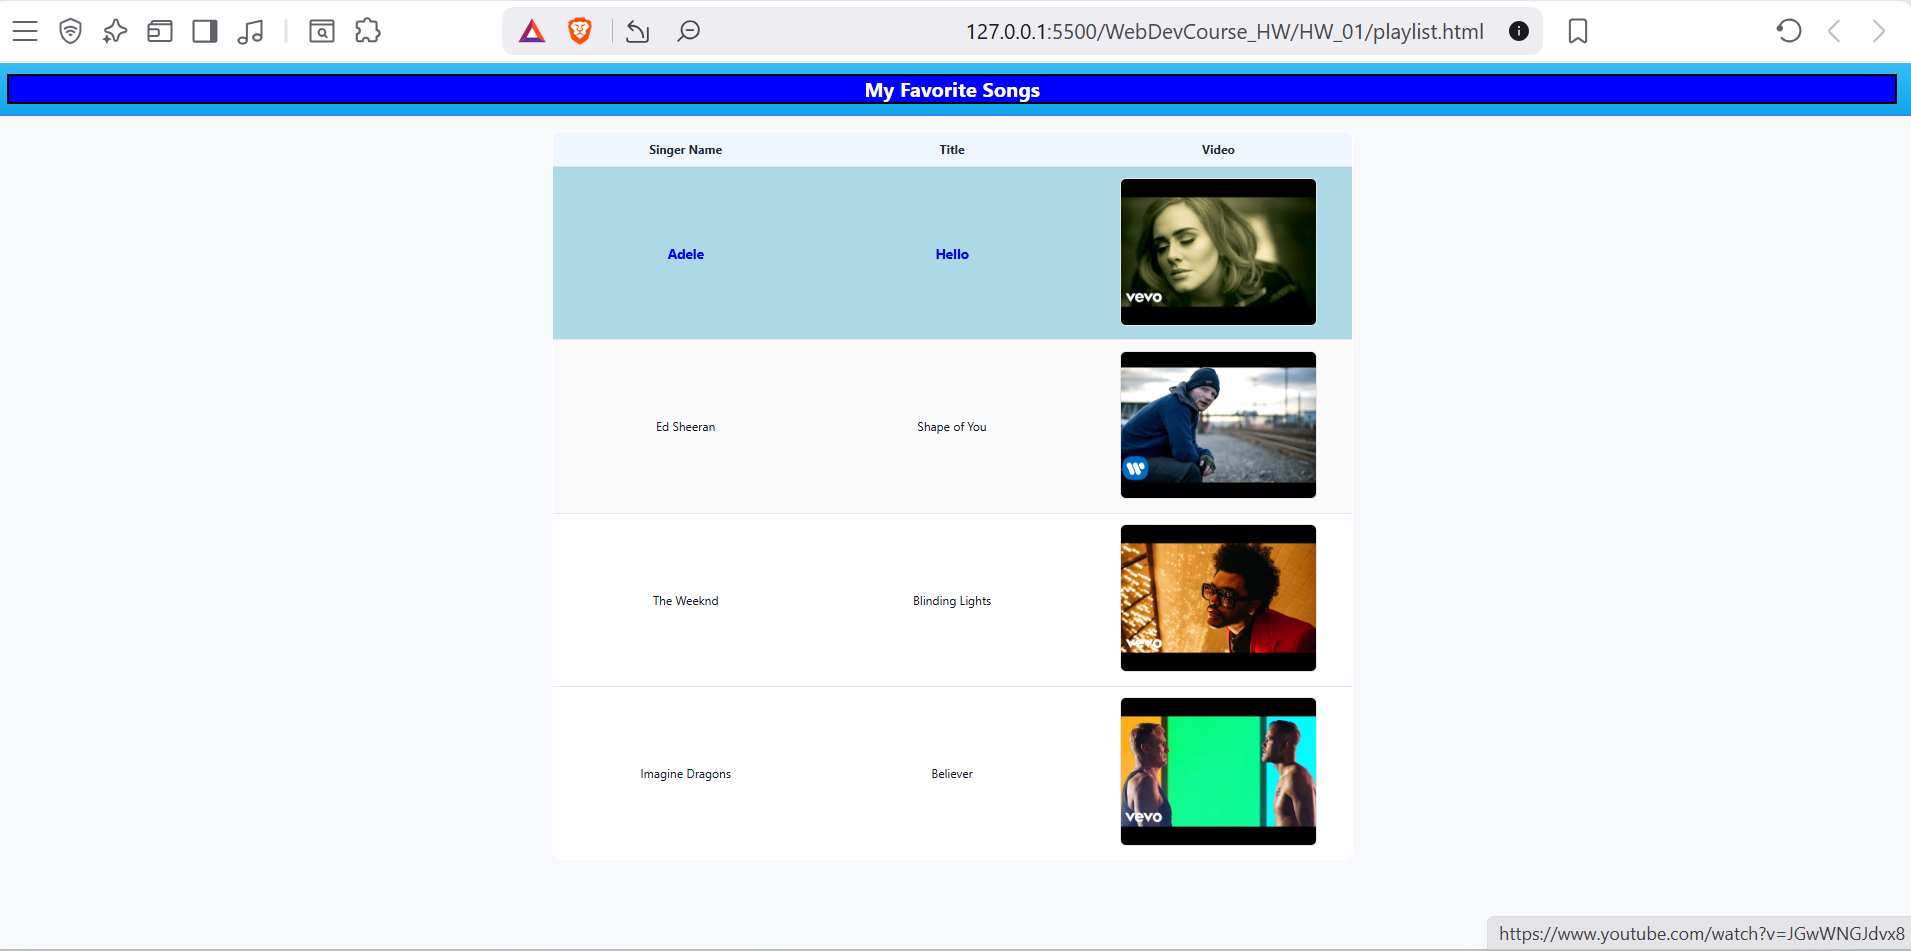
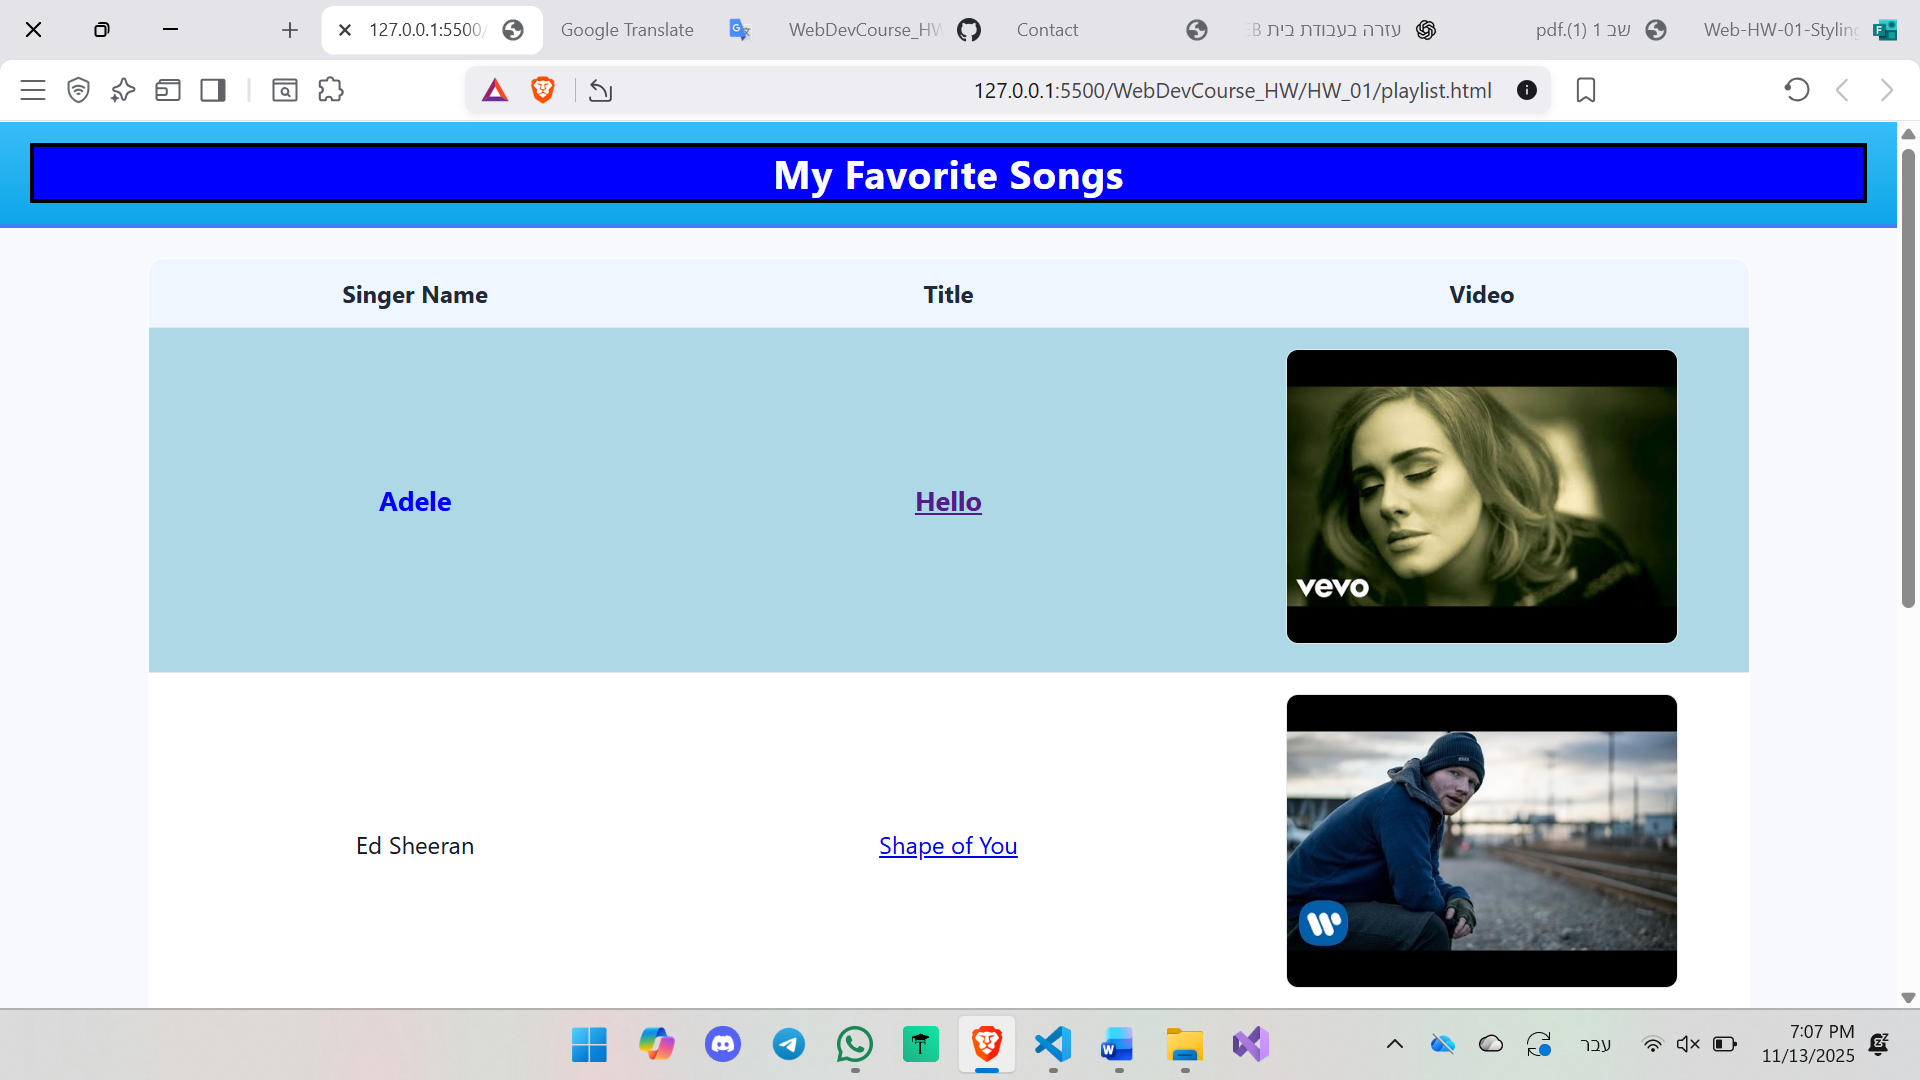
HW_01: Make song titles YouTube links + hover (screenshot 07.png)

diff --git a/HW_01/playlist.html b/HW_01/playlist.html
@@ -6,7 +6,7 @@
     <meta name="viewport" content="width=device-width, initial-scale=1" />
     <link rel="stylesheet" href="playlist.css" />
     <style>
-        /* Center the title */
+        /* מרכז את הכותרת */
         .topbar h1 {
             text-align: center;
             margin: 0;
@@ -25,94 +25,75 @@
     <main class="container">
         <table class="playlist">
             <thead>
-                <table class="playlist">
-                    <thead>
-                        <tr>
-                            <th>Singer Name</th>
-                            <th>Title</th>
-                            <th>Video</th>
-                        </tr>
-                    </thead>
-                    <tbody>
-                        <tr class="selected-row">
-                            <td>Adele</td>
-                            <td>Hello</td>
-                            <td class="video">
-                                <a href="https://www.youtube.com/watch?v=YQHsXMglC9A" target="_blank" rel="noopener">
-                                    <img src="https://img.youtube.com/vi/YQHsXMglC9A/hqdefault.jpg" alt="Adele - Hello">
-                                </a>
-                            </td>
-                        </tr>
-
-
-                        <tr>
-                            <td>Ed Sheeran</td>
-                            <td>Shape of You</td>
-                            <td class="video">
-                                <a href="https://www.youtube.com/watch?v=JGwWNGJdvx8" target="_blank" rel="noopener">
-                                    <img src="https://img.youtube.com/vi/JGwWNGJdvx8/hqdefault.jpg"
-                                        alt="Ed Sheeran - Shape of You">
-                                </a>
-                            </td>
-                        </tr>
-
-                        <tr>
-                            <td>The Weeknd</td>
-                            <td>Blinding Lights</td>
-                            <td class="video">
-                                <a href="https://www.youtube.com/watch?v=fHI8X4OXluQ" target="_blank" rel="noopener">
-                                    <img src="https://img.youtube.com/vi/fHI8X4OXluQ/hqdefault.jpg"
-                                        alt="The Weeknd - Blinding Lights">
-                                </a>
-                            </td>
-                        </tr>
-
-                        <tr>
-                            <td>Imagine Dragons</td>
-                            <td>Believer</td>
-                            <td class="video">
-                                <a href="https://www.youtube.com/watch?v=7wtfhZwyrcc" target="_blank" rel="noopener">
-                                    <img src="https://img.youtube.com/vi/7wtfhZwyrcc/hqdefault.jpg"
-                                        alt="Imagine Dragons - Believer">
-                                </a>
-                            </td>
-                        </tr>
-                    </tbody>
-                </table>
-
-            </thead>
-            <tbody>
-                <!-- דוגמה לשורה — החלף ידנית בסעיף 10 -->
                 <tr>
-                    <td><!-- Singer --></td>
-                    <td><!-- Song title --></td>
+                    <th>Singer Name</th>
+                    <th>Title</th>
+                    <th>Video</th>
+                </tr>
+            </thead>
+
+            <tbody>
+                <tr class="selected-row">
+                    <td>Adele</td>
+                    <td>
+                        <a class="song-link" href="https://www.youtube.com/watch?v=YQHsXMglC9A" target="_blank"
+                            rel="noopener">
+                            Hello
+                        </a>
+                    </td>
                     <td class="video">
-                        <!-- שים כאן קישור ליוטיוב ו-thumbnail -->
-                        <!-- דוגמה שמראים כמבנה בלבד: -->
-                        <!--
-            <a href="https://www.youtube.com/watch?v=XXXXXXXXXXX" target="_blank" rel="noopener">
-              <img src="https://img.youtube.com/vi/XXXXXXXXXXX/hqdefault.jpg" alt="Watch on YouTube">
-            </a>
-            -->
+                        <a href="https://www.youtube.com/watch?v=YQHsXMglC9A" target="_blank" rel="noopener">
+                            <img src="https://img.youtube.com/vi/YQHsXMglC9A/hqdefault.jpg" alt="Adele - Hello">
+                        </a>
                     </td>
                 </tr>
 
                 <tr>
-                    <td></td>
-                    <td></td>
-                    <td class="video"></td>
+                    <td>Ed Sheeran</td>
+                    <td>
+                        <a class="song-link" href="https://www.youtube.com/watch?v=JGwWNGJdvx8" target="_blank"
+                            rel="noopener">
+                            Shape of You
+                        </a>
+                    </td>
+                    <td class="video">
+                        <a href="https://www.youtube.com/watch?v=JGwWNGJdvx8" target="_blank" rel="noopener">
+                            <img src="https://img.youtube.com/vi/JGwWNGJdvx8/hqdefault.jpg"
+                                alt="Ed Sheeran - Shape of You">
+                        </a>
+                    </td>
                 </tr>
 
                 <tr>
-                    <td></td>
-                    <td></td>
-                    <td class="video"></td>
+                    <td>The Weeknd</td>
+                    <td>
+                        <a class="song-link" href="https://www.youtube.com/watch?v=fHI8X4OXluQ" target="_blank"
+                            rel="noopener">
+                            Blinding Lights
+                        </a>
+                    </td>
+                    <td class="video">
+                        <a href="https://www.youtube.com/watch?v=fHI8X4OXluQ" target="_blank" rel="noopener">
+                            <img src="https://img.youtube.com/vi/fHI8X4OXluQ/hqdefault.jpg"
+                                alt="The Weeknd - Blinding Lights">
+                        </a>
+                    </td>
                 </tr>
 
                 <tr>
-                    <td></td>
-                    <td></td>
-                    <td class="video"></td>
+                    <td>Imagine Dragons</td>
+                    <td>
+                        <a class="song-link" href="https://www.youtube.com/watch?v=7wtfhZwyrcc" target="_blank"
+                            rel="noopener">
+                            Believer
+                        </a>
+                    </td>
+                    <td class="video">
+                        <a href="https://www.youtube.com/watch?v=7wtfhZwyrcc" target="_blank" rel="noopener">
+                            <img src="https://img.youtube.com/vi/7wtfhZwyrcc/hqdefault.jpg"
+                                alt="Imagine Dragons - Believer">
+                        </a>
+                    </td>
                 </tr>
             </tbody>
         </table>

diff --git a/HW_01/playlist.css b/HW_01/playlist.css
@@ -132,3 +132,17 @@ td.video img {
     font-weight: bold;
     /* טקסט מודגש */
 }
+
+/* עיצוב ללינקים של הסרטונים */
+.video-link {
+    display: inline-block;
+    border-radius: 8px;
+    overflow: hidden;
+    transition: transform 0.25s ease, filter 0.25s ease;
+}
+
+.video-link:hover {
+    transform: scale(1.05);
+    filter: brightness(1.1);
+    box-shadow: 0 4px 16px rgba(0, 0, 0, 0.25);
+}
